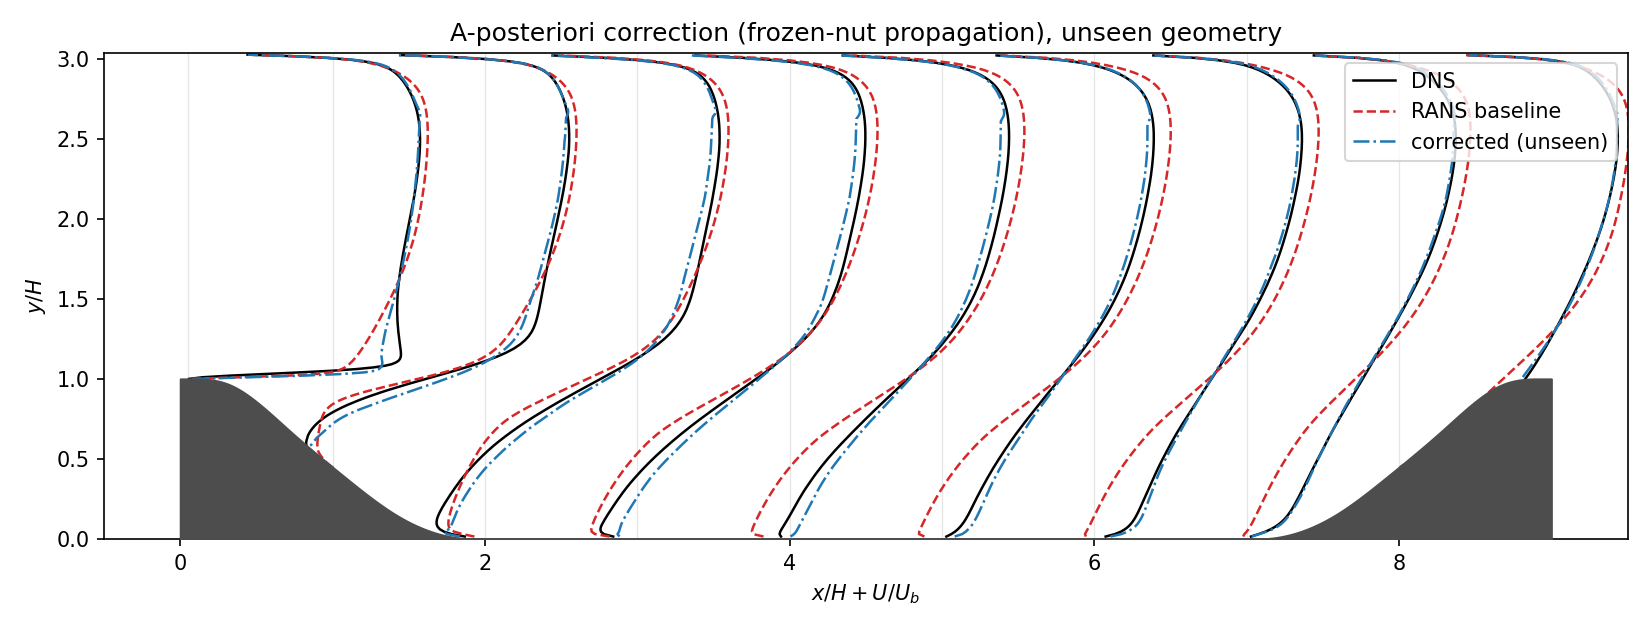
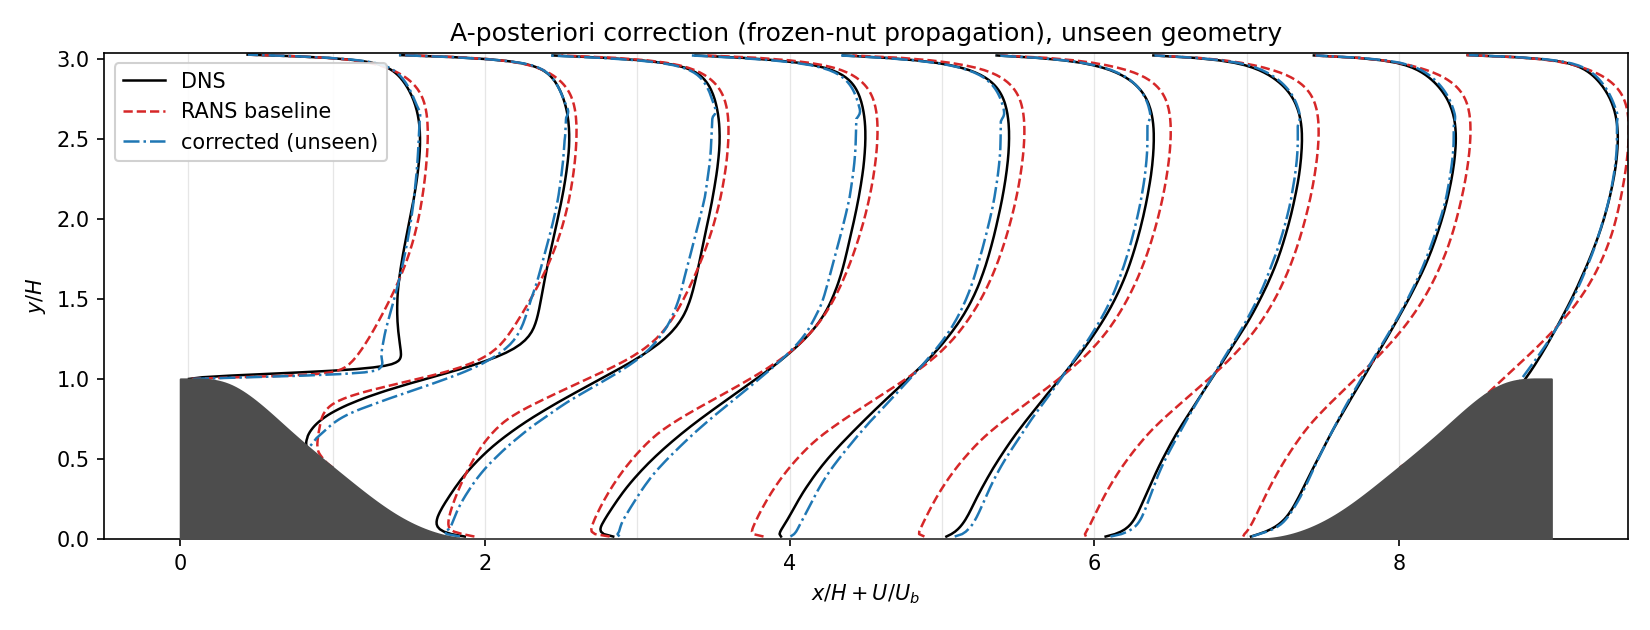
Move the a-posteriori profile legend clear of the data
The legend sat at upper right, where it overlapped the downstream velocity
profiles. The profiles lean right as U/Ub grows, so the top-left corner is
clear; the legend moves there.

Changed region(s): [[0.8036, 0.0905, 0.9891, 0.2714], [0.0618, 0.0905, 0.2473, 0.2714]]

diff --git a/analysis/06_aposteriori.py b/analysis/06_aposteriori.py
@@ -173,7 +173,9 @@ def _profiles_figure(xy_d, Ud, xy_b, Ub, xy_p, Up, out):
     ax.set_title("A-posteriori correction (frozen-nut propagation), unseen geometry")
     ax.set_xlim(-0.5, 9.5)
     ax.set_ylim(0, grid.Y_TOP)
-    ax.legend(loc="upper right")
+    # Upper left: the profiles lean right as U/Ub grows, so the top-left corner
+    # is clear while the top-right is not.
+    ax.legend(loc="upper left", framealpha=0.9)
     fig.tight_layout()
     fig.savefig(out, dpi=150)
     plt.close(fig)
